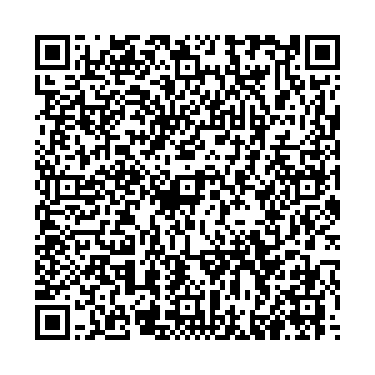
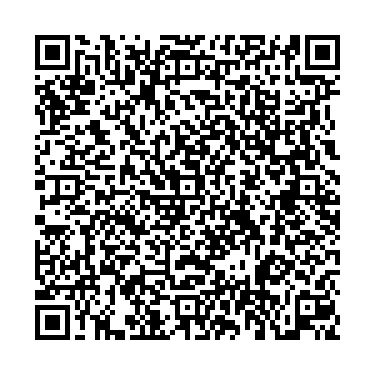
se agrega mensaje personalizado 4

Changed region(s): [[0.088, 0.088, 0.9093, 0.9093]]

diff --git a/flows/flowPrincipal.js b/flows/flowPrincipal.js
@@ -29,7 +29,7 @@ const flowPrincipal = addKeyword(EVENTS.WELCOME)
   .addAction(
     async (ctx, { state, flowDynamic }) => {
       const find = await findUsers(ctx.from);
-      const username = (find!= undefined) ? find[0][0].name:''
+      const username = (find[0][0]!= undefined) ? find[0][0].name:''
       await flowDynamic([`Bienvenido ${username} al ChatBot del *Gran Fondo Coconal*`, "Evento para los amantes del ciclismo. Recorrer la autopista DURANGO-TORREÓN en CARRERA 200K "]);
 
 
